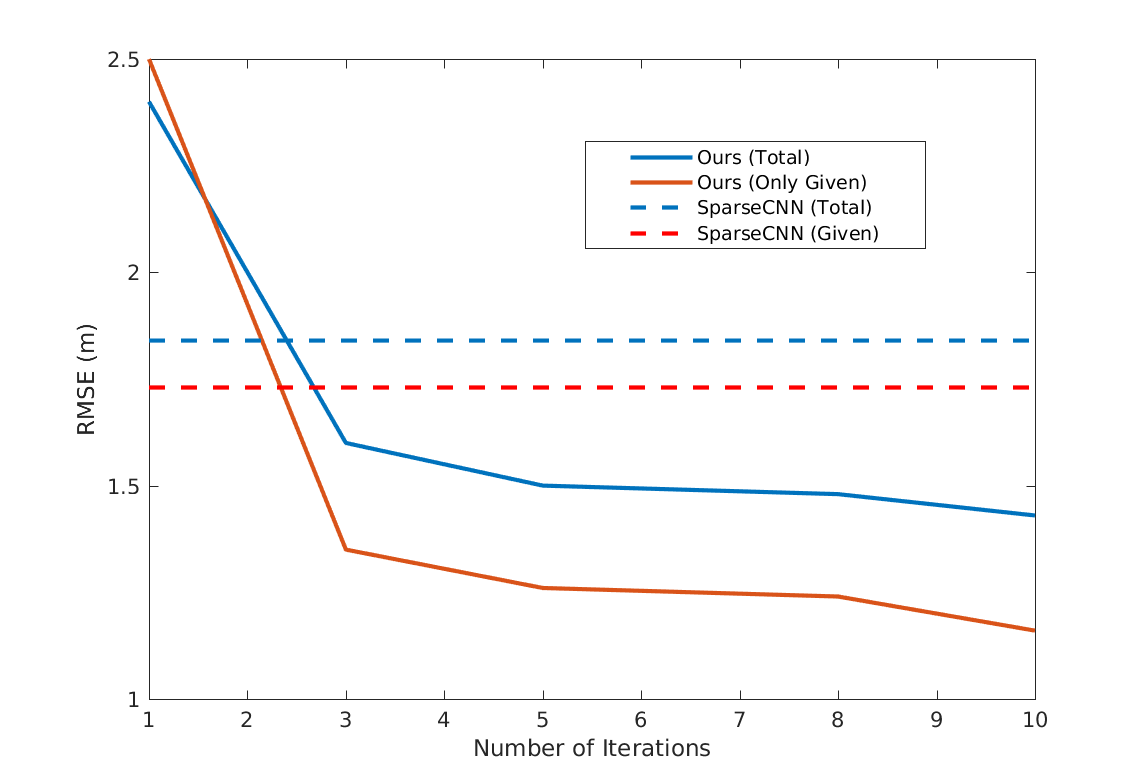
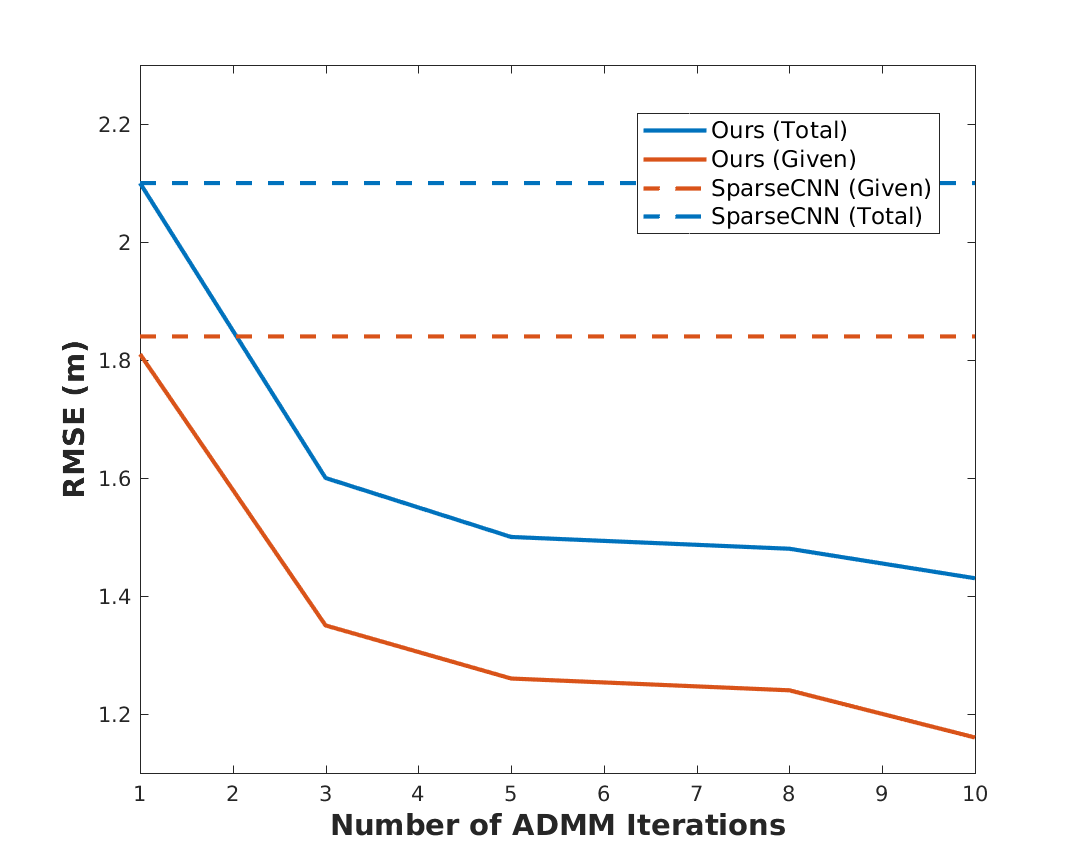
Added Experiments and Approach section

diff --git a/Introduction-nate.tex b/Introduction-nate.tex
@@ -7,22 +7,20 @@
   \caption{From top to bottom: RGB image of scene, ground-truth depth, input to the network, our output. The bicycalist and bollards can barely be seen in the input map but a clearly represented in the output. Our method also accurately reconstructs very thin objects such as the sign post.}
   \label{fig:intro}
 \end{figure}
-In recent years 3D information has become an important component of robotic sensing. Usually this information is presented in 2.5D as a depth map, either measured directly using LIDAR or computed using stereo correspondence. Since LIDAR and stereo techniques yield few samples relative to modern image sensors, it has become desirable to convert sparse depth measurements into high resolution depth maps.
+In recent years 3D information has become an important component of robotic sensing. Usually this information is presented in 2.5D as a depth map, either measured directly using LIDAR or computed using stereo correspondence. Since LIDAR and stereo techniques yield few samples relative to modern image sensors, it has become desirable to convert sparse depth measurements into high resolution depth maps as shown in Figure (\ref{fig:intro}).
 
 
-Recent works~\cite{} have directly applied deep networks to depth completion from sparse measures. However, common network architectures have two drawbacks when applied to this task: 1) They implicitly pose depth completion as finding a mapping from sparse depth maps to dense ones, instead of as finding a depth map that is consistent with the sparse input. This essentially throws away information and we observe that feed forward networks do not learn to propagate the input points through to the output. 2) Common networks are sensitive to the sparsity of the input since they treat all pixels equally, regardless of whether or not they represent samples or missing input. Special CNN networks have been designed to address this problem, but they still do not express the constraints given by the input~\cite{}. In this paper we address both of these issues with a novel deep recurrent autoencoder architecture which internally optimizes its depth prediction while respecting to both sparsity and input constraints.
+Recent works~\cite{} have directly applied deep networks to depth completion from sparse measures. However, common network architectures have two drawbacks when applied to this task: 1) They implicitly pose depth completion as finding a mapping from sparse depth maps to dense ones, instead of as finding a depth map that is consistent with the sparse input. This essentially throws away information and we observe that feed forward networks do not learn to propagate the input points through to the output. 2) Common networks are sensitive to the sparsity of the input since they treat all pixels equally, regardless of whether or not they represent samples or missing input. Special CNN networks have been designed to address this problem, but they still do not express the constraints given by the input~\cite{}. In this paper we address both of these issues with a novel deep recurrent autoencoder architecture, which internally optimizes its depth prediction with respect to both sparsity and input constraints.
 %) Common networks are sensitive to the sparsity level of the input since they treat each pixel equally, regardless of whether it is an input or missing value. While special CNN architecture have been designed to achieve sparsity invariance~\cite{}, they have no way to handle the second issue. 2) Common networks do not explicitly enforce the constraint that the input depth map is a subset of the desired output. In fact, we observe that deep networks are not able to effectively propagate input depth samples to the output. In this paper we address both of these issues with a novel deep recurrent autoencoder architecture which internally optimizes its depth prediction while respecting to both sparsity and input constraints.
-
-
-We have taken inspiration from Compressed sensing (CS), which provides a natural framework for this problem. Formally, CS is concerned with recovering signals from incomplete measurements by enforcing that signals be sparse when measured in an appropriate basis. This basis takes the form of an overcomplete dictionary matrix $A$ which maps sparse representations to observed signals.
+To do this, we have taken inspiration from Compressed sensing (CS) which provides a natural framework for this problem. Formally, CS is concerned with recovering signals from incomplete measurements by enforcing that signals be sparse when measured in an appropriate basis. This basis takes the form of an overcomplete matrix $A$ which maps sparse representations to observed signals.
 % To reconstruct signals which are not measured, certain prior knowledge/assumption of the signal is required.
 
-The choice of dictionary is crucial for recovering the signal efficiently, especially when the dimensionality is high. For high resolution imagery data, such as depth maps, multi-layer convolutional sparse coding~\cite{} is effective as it explicitly models local interactions through the convolution operator~\cite{} and captures higher level abstraction of the signal~\cite{} with tractable computational and model complexity. However, none of the existing multi-layer convolutional sparse coding algorithms are designed for data with large potion of missing values. This is reflected by the fact that recent works~\cite{} applying CS to depth completion are restricted to using single-level, hand crafted dictionaries. CS has also fallen out of fashion since the existing algorithms have difficult to interpret hyper-parameters, and often do not achieve good performance without careful tuning of these parameters.
+The choice of dictionary is crucial for recovering the signal efficiently, especially when the dimensionality is high. For high resolution imagery data, such as depth maps, multi-layer convolutional sparse coding~\cite{} is effective as it explicitly models local interactions through the convolution operator~\cite{} with tractable computational and model complexity. However, none of the existing multi-layer convolutional sparse coding algorithms are designed for learning from sparse ground truth data. This is reflected by the fact that recent works~\cite{} applying CS to depth completion are restricted to using single-level, hand crafted dictionaries. CS has also fallen out of fashion since the existing algorithms have difficult to interpret hyper-parameters, and often do not achieve good performance without careful tuning of these parameters.
 
 % extracting sparse codes $x$ but learning an appropriate $A$ from data proves challenging, especially with a large amount of data or large dimensionality. Learning dictionaries is especially difficult in layered sparse coding where one seeks a very high level sparse representation $x_{\ell}$ such that $b = A_0A_1\ldots A_{\ell}x_{\ell}$ and each intermediate product $x_i = A_iA_{i+1}\ldots A_{\ell}x_{\ell}$ is also sparse. This formulation makes using large effective dictionary computationally tractable, and when the dictionaries have a convolutional structure it allows for increased receptive fields while keeping the number of parameters manageable. For the case of depth map prediction, dictionary learning is further complicated by the fact that we do not have any complete signals to learn from. 
 % Dictionary learning algorithms exist for single-layer sparse training data case, and for the multi-level case, but not for learning multi-level codes from sparse data. 
 
-Our approach also establishes a close connection between deep learning and CS. Inspired by recent work of Murdock \etal, which shows that feed forward neural networks can be viewed as a single iteration of alternating direction method of multipliers (ADMM) for sparse coding, we unroll the ADMM optimization iterations for CS and express it as a deep recurrent autoencoder. This not only allows us to learn multi-layer dictionaries and hyper-parameters, in an end-to-end fashion, but also gives a concrete framework for explicitly enforcing constraints on the output of a network.
+Following the recent work of Murdock \etal, which shows that feed forward neural networks can be viewed as a single iteration of alternating direction method of multipliers (ADMM) for sparse coding, we unroll the ADMM optimization iterations for CS and express it as a deep recurrent autoencoder. This not only allows us to learn multi-layer dictionaries and hyper-parameters, in an end-to-end fashion, but also gives a concrete framework for explicitly enforcing constraints on the output of a network.
 
 % propose an extension of ADNNs which explicitly encode the previously mentioned sparsity and input/output constraints.
 
@@ -37,13 +35,13 @@ Our approach also establishes a close connection between deep learning and CS. I
 
 To summarize, the main contributions of this paper are:
 \begin{enumerate}
-\item We frame an end-to-end multi-layer dictionary learning algorithm as a neural network. This allows us to effectively learn dictionaries and hyper-parameters from a large dataset. In comparison, existing CS algorithms either use hand crafted dictionaries, or use separately learned dictionaries, but limited to single level codes~\cite{} or inapplicable to incomplete training data~\cite{}, as is our case.
+\item We frame an end-to-end multi-layer dictionary learning algorithm as a neural network. This allows us to effectively learn dictionaries and hyper-parameters from a large dataset. In comparison, existing CS algorithms either use hand crafted dictionaries, separately learned multi-level dictionaries, or are inapplicable to incomplete training data~\cite{}, as is our case.
 
   
-\item Our method allows for explicit encoding of the constraints from the input sparse depth. Current deep learning approaches~\cite{} simply feed in a sparse depth map and relies solely on data to teach the network to identify which inputs represent missing data. Some recent models~\cite{} explicitly include masks to achieve sparsity invariant, but none have a guaranteed way of encoding that the input is a subset of the desired output. In contrast our method directly optimizes the predicted map with respect to the input.
+\item Our method allows for explicit encoding of the constraints from the input sparse depth. Current deep learning approaches~\cite{} simply feed in a sparse depth map and rely solely on data to teach the network to identify which inputs represent missing data. Some recent models~\cite{} explicitly include masks to achieve sparsity invariant, but none have a guaranteed way of encoding that the input is a subset of the desired output. In contrast our method directly optimizes the predicted map with respect to the input.
   
   
-\item Our method demonstrates state-of-the-art performance with much fewer parameters compared to deep networks. In fact,  using only two layers of dictionaries, our method already substantially outperforms modern deep networks~\cite{}. As a result of having fewer parameters, our approach trains faster and requires less data.
+\item Our method demonstrates state-of-the-art performance with much fewer parameters compared to deep networks. In fact, using only two layers of dictionaries, our method already substantially outperforms modern deep networks~\cite{}. As a result of having fewer parameters, our approach trains faster and requires less data.
   
 \end{enumerate}
   

diff --git a/Experiment.tex b/Experiment.tex
@@ -1,4 +1,9 @@
 \section{Experiments}
+
+\subsection{Implementation Details}
+\label{sec:impl-deta}
+
+We implemented three variants of algorithm (\ref{alg:dcsc}) for the cases $\ell = 1,2,3$. For the single layer case we let $W^T_1$ be a 11x11 convolution with striding of 2 and 8 filters. For $\ell = 2$ we let $W^T_{1}$ be an 11x11 convolution with 8 filters and $W^T_{1}$ be a 7x7 convolution with 16 filters. Finally for the $\ell = 3$ case: $W^T_{1}$ is an 11x11 convolution with 8 filters, $W^T_{2}$ is a 7x7 convolution with 16 filters, and $W^T_{3}$ is a 5x5 convolution with 32 filters. For both $\ell = 2$ and $\ell = 3$, all convolutions have striding of 2. For the single layer case we learned the dictionaries with the number of iterations set to 5 and then at test time increased the number of iterations to 20. For the two and three layer cases the number of iterations was fixed at train and test time to 10 except in section \ref{sec:effect-iter-optim} where the number of test and training iterations is varied. All training was done with the ADAM optimizer with the default parameters.
 \subsection{KITTI Depth Completion Benchmark}
 \label{sec:kitti-depth-compl}
 \begin{figure}
@@ -14,19 +19,19 @@
   ConvNet & 2.97 & 0.78\\
   ConvNet + mask & 2.24 & 0.79\\
   SparseConvNet~\cite{} & 1.82 & 0.58\\
-  Ma \& Karaman & 1.68 & 0.70\\
+  Ma \& Karaman & 1.68 & 0.70\\\hline
   Ours 1 Layer & 2.77 & 0.83\\
   Ours 2 Layers & 1.44 & 0.47\\
   Ours 3 Layers & \textbf{1.37} & \textbf{0.46}
 \end{tabular}
 
-\caption{Comparison with various methods on the KITTI Depth Completion benchmark. All resulsts except for SparseConvNet and Ma's are taken as reported from ~\cite{}. Our method outperforms all previous state-of-the-art depth only completion methods (Bottom) as well as those that use RGB images for guidance (Top).}
+\caption{Validation error of various methods on the KITTI Depth Completion benchmark. All resulsts except for SparseConvNet and Ma's are taken as reported from ~\cite{}. Our method outperforms all previous state-of-the-art depth only completion methods (Middle) as well as those that use RGB images for guidance (Top).}
 \label{fig:kitti}
 \end{figure}
 
-The KITTI dataset provides raw LIDAR measurements in conjunction with high resolution RGB images from 22 video sequences of driving in both cities and highways. Combining all video sequences gives 93k frames with semi-dense ground truth depth. However, these measurements are corrupted by noise, motion of the vehicle during sampling, and image rectification artifacts. Additionally the raw LIDAR points are very sparse, accounting for around 4\% of the total number of pixels in the map. For these reasons the raw KITTI dataset is not ideal for evaluating depth completion systems.\\
+The KITTI dataset provides raw LIDAR measurements in conjunction with high resolution RGB images from 22 video sequences of driving in both cities and highways. Combining all video sequences gives 93k frames with semi-dense ground truth depth. However, these measurements are corrupted by noise, motion of the vehicle during sampling, and image rectification artifacts. Additionally the raw LIDAR points are very sparse, accounting for only 4\% of the total number of pixels in the map. For these reasons the raw KITTI dataset is not ideal for evaluating depth completion systems.\\
 
-The sparsity issue can be resolved by accumulating LIDAR measurements from nearby frames in the video sequences, and by using semi-global matching to reconstruct dense 3D points which can be projected using the given calibration files. Both these processes introduce more errors from occlusion and non-rigid movement across frames. Urhig \etal resolved these issues by automatically removing accumulated LIDAR points that deviate from the SGM points by too much. The result is the KITTI depth completion benchmark, the first large scale dataset for depth completion training and evaluation. This benchmark is ideal since it has high quality ground truth and effectively simulates the main application of depth completion: recovering dense depth from a single LiDAR sweep.\\
+The sparsity issue can be resolved by accumulating LIDAR measurements from nearby frames in the video sequences, and by using semi-global matching to reconstruct dense 3D points which can be projected using the given calibration files. Both these processes introduce more errors from occlusion and non-rigid movement across frames. Urhig \etal resolved these issues by automatically removing accumulated LIDAR points that deviate too far from the SGM points. The result is the KITTI depth completion benchmark, the first and only large scale dataset for depth completion training and evaluation. This benchmark is ideal since it has high quality ground truth and effectively simulates the main application of depth completion: recovering dense depth from a single LiDAR sweep.\\
 
 Urhig \etal then evaluated their proposed Sparsity Invariant CNNs on this dataset as well as several other current methods for depth completion. Figure (\ref{fig:kitti}) shows the results they present along with our method and the results of the very deep Sparse-to-Dense network proposed by Ma \& Karaman. The Sparse-to-Dense network is fairly standard, using Resnet-18 as an encoder and up-projection blocks for a decoder. Similar architectures have been presented in other works for single shot depth prediction. Notably our method outperforms all of the existing methods by a wide margin, including those that use RGB images and those that use orders of magnitude more parameters than our method.
 \subsection{Effect of Amount of Training Data}
@@ -36,8 +41,8 @@ Urhig \etal then evaluated their proposed Sparsity Invariant CNNs on this datase
   \caption{Results of selected methods for varying training set sizes.}
   \label{fig:trainsize}
 \end{figure}
-Modern deep learning models typically have tens of thousands to millions of parameters and therefore require enormous training sets to achieve good performance. This is in fact the motivation for the KITTI depth completion dataset, since previous benchmarks were unsuitable for training deep networks. In this section we investigate the dependence on the amount of training data on the performance of our method in comparison with a standard deep network and the sparsity invariant variety.\\
-Figure () shows the results of evaluating these models on the 1k manually selected validation depth maps after training on varying subsets of the 86k training maps. Our method outperforms both baselines for all training sizes. As expected Ma \& Karaman's method fails to generalize well when trained on a small dataset since the model has ~3.4M parameters but performs well once trained on the full dataset. It is interesting to observe that the method of Urhig \etal does not gain any performance from training on more data. Our method is able to perform comparably to the sparsity invariant network with only 100 training examples but does increase in performance when given more data, validating the need for learning layered sparse coding dictionaries from large training sets.
+Modern deep learning models typically have tens of thousands to millions of parameters and therefore require enormous training sets to achieve good performance. This is in fact the motivation for the KITTI depth completion dataset, since previous benchmarks did not have enough data to train deep networks. In this section we investigate the dependence on the amount of training data on the performance of our method in comparison with a standard deep network and the sparsity invariant variety.\\
+Figure (\ref{fig:trainsize}) shows the results of evaluating these models on the 1k manually selected validation depth maps after training on varying subsets of the 86k training maps. Our method outperforms both baselines for all training sizes. As expected Ma \& Karaman's method fails to generalize well when trained on a small dataset since the model has ~3.4M parameters but performs well once trained on the full dataset. It is interesting to observe that the method of Urhig \etal does not gain any performance from training on more data. Our method is able to perform comparably to the sparsity invariant network with only 100 training examples but does increase in performance when given more data, validating the need for learning layered sparse coding dictionaries from large training sets.
 \subsection{Effect of Iterative Optimization}
 \label{sec:effect-iter-optim}
 \begin{figure}
@@ -46,9 +51,9 @@ Figure () shows the results of evaluating these models on the 1k manually select
   \label{fig:iterplot}
 \end{figure}
 
-In this section we demonstrate that the success of our approach comes from its ability to refine depth estimates over multiple iterations. Applying a feed forward neural network to this problem frames it as finding a mapping from sparse LiDAR points to true depth maps. This is a reasonable approach but it doesn't utilize all of the available information, specifically it doesn't encode the relationship that input samples are a subset of the output. In contrast our approach of phrasing the depth completion as a compressed sensing missing data problem directly expresses that relationship. It is the iterative nature of our network that allows it to find depth maps that are both consistent with the input constraints and have sparse representations.\\
+In this section we demonstrate that the success of our approach comes from its ability to refine depth estimates over multiple iterations. Applying a feed forward neural network to this problem frames it as finding a mapping from sparse LiDAR points to true depth maps. This is a reasonable approach but it doesn't utilize all of the available information, specifically it doesn't encode the relationship that input samples are a subset of the output. In contrast, our approach of phrasing depth completion as a compressed sensing missing data problem directly expresses that relationship. By solving this problem in an iterative fashion our network that is able to find depth maps that are both consistent with the input constraints and have sparse representations.\\
 
-The importance iterative optimization is shown in Figure (\ref{fig:iterplot}) where we examine the performance of our method as a function of the number of ADMM iterations it encodes. It is clear that with few iterations our network fails to enforce the constraints and performs comparably to the SparseConvNet. It is as we increase the number of iterations that our method can meet the constraints and out perform the existing methods.
+The importance iterative optimization is shown in Figure (\ref{fig:iterplot}) where we examine the performance of our method as a function of the number of ADMM iterations it uses. It is clear that with few iterations our network fails to enforce the constraints and performs comparably to the SparseConvNet. As we increase the number of iterations that our method can meet the constraints and greatly out perform existing methods.
 % - Feed-forward is bad for this problem
 % - Phrasing it as optimization is better, specifically sparse coding
 % - All the best algorithms for CSC require multiple iterations to converge to a good solution

diff --git a/Approach.tex b/Approach.tex
@@ -1,1 +1,113 @@
 \section{Method}
+\subsection{Sparse Coding and Deep Component Analysis}
+\label{sec:compr-sens-deep}
+
+The field of compressed sensing (CS) provides a natural framework for recovering a signal from a small set of measurements. Compressed sensing is based on sparse coding which is formally concerned with solving the following problem. 
+\begin{equation}
+  \label{eq:1}
+  x^* = \min \left||x\right||_0 s.t. Ax = b
+\end{equation}
+The key insight is that when the optimal $x$ is known to have only a few non-zero entries, then it is a unique minimum and can be recovered exactly even when $A$ is over-complete. This proves useful for compressed sensing since if the number of non-zero entries of $x^*$ is known to be $k$, then it effectively reduces the degress of freedom of the problem to $2k$ (the entries and their indices). Therefore we may need as few as $2k$ elements of $b$ to fully contrain the solution of $x^{*}$.\\
+
+Equation (\ref{eq:1}) can be generalized to multi-layered sparse coding in which one seeks a very high level sparse representation $x_{\ell}$ such that $b = A_0A_1\ldots A_{\ell}x_{\ell}$ and each intermediate product $x_i = A_iA_{i+1}\ldots A_{\ell}x_{\ell}$ is also sparse. This formulation makes using a large effective dictionary computationally tractable, and when the dictionaries have a convolutional structure it allows for increased receptive fields while keeping the number of parameters manageable. This is further generalized to Deep Component Analysis (DeepCA) by the recent work of Murdock \etal which replaces the $\ell_0$ loss with arbitrary sparsity-encouraging penalties. The DeepCA objective function is stated in ~\cite{} as:
+\begin{equation}
+  \label{eq:2}
+  \min_{\Theta, \{z_i\}} \sum_{i=1}^{\ell} \frac{1}{2} \left|| z_{i-1} - W_iz_i\right||_2^2 + \Phi_i(z_i)
+\end{equation}
+where the $\Phi_j$ are the penalty functions. Previous work has shown that the specific choice of $\Phi(x) = I(x > 0) + b\left||x\right||_1$ yields optimization algorithms very similar to a feed-forward neural network with Relu activations. By using the ADMM algorithm to solve equation (\ref{eq:2}), Murdock \etal create Alternating Direction Neural Networks, a generalization of feed forward neural networks which internally solve optimization problems with the form of (\ref{eq:2}). Alternating Direction Neural Networks (ADNNs) perform the optimization in a fully differentiable manner and cast the activation functions of each layer as the proximal operators of penalty function $\Phi_i$ of that layer. This allows for learning the dictionaries $W_i$ through gradient descent and back propegation with respect to an arbitrary loss function on the sparse codes. To mirror neural networks, Murdock \etal apply various loss functions to the highest level of codes, which take the place of the output layer in traditional NNs. In the following sections we will show how ADNNs can be adapted to the depth completion problem.\\
+
+Before applying ADNNs to depth completion we will review how sparse coding is used for compressed sensing. To this end, consider applying to $b$ a rectangular binary matrix $M$ such that $MM^T = I$ and each row contains all 0s except for a single 1. Intuitively, if $b$ is the signal we wish to recover then $Mb$ is the portion of $b$ we measure. Using the condition from equation (\ref{eq:1}) we have $MAx = Mb$. This combined with the sparsity of $x$ yields another sparse coding problem, now with the modified dictionary $MA$. It is known that if $x$ is sparse enough to be a unique encoding of $Mb$ with respect to $MA$, then it must also be the unique encoding of $b$ with respect to $A$ ~\cite{}. Thus once the sparse codes $x$ have been found the full signal can be recovered as $Ax$. We will now apply this formulation to DeepCA and then develop a modificaiton to ADNNs to solve the new Deep Compressed Sensing problem.
+
+\subsection{Deep Compressed Sensing}
+\label{sec:deep-compr-sens}
+
+Directly applying compressed sensing to the DeepCA objective gives
+\begin{equation*}
+  \min_{\Theta, \{z_i\}} \frac{1}{2} \left|| Md - MW_1z_1 \right||^2 + \Phi(z_1) \sum_{i=2}^{\ell} \frac{1}{2} \left|| z_{i-1} - W_iz_i\right||_2^2 + \Phi_i(z_i)  
+\end{equation*}
+where $d$ is the full depth map and $Md$ is the sparse input depth map. However, if we take the $W_i$ to have a convolutional structure then an element $z_1$ will not be recovered if its spatial support contains no valid depth samples. Thus, extracting the higher level codes is itself a missing data problem and can be written the same way. This gives the full Deep Convolutional Compressed Sensing objective:
+\begin{equation}
+  \label{eq:dccs}
+  \min_{\Theta, \{z_i\}} \sum_{i=1}^{\ell} \frac{1}{2} \left|| M_{i-1}z_{i-1} - M_{i-1}W_iz_i\right||_2^2 + \Phi_i(z_i)
+\end{equation}
+where $Md = M_0z_0$ and $M_i$ is a mask which encodes which elements of $z_i$ had any valid inputs in their spatial support. In practice computing $M_i$ is done with a maxpooling operation with the same stride and kernel size as the convolution represented by $W_{i+1}^T$. We will now solve (\ref{eq:dccs}) using the ADMM algorithm.\\
+
+By introducing auxiliary variables $y_i = z_i$ we can form the augmented Lagrangian of (\ref{eq:dccs}) as:
+\begin{equation}
+  L(z, y, \lambda) = \sum_{i=1}^{\ell} \frac{1}{2} \left|| M_{i-1}y_{i-1} - M_{i-1}W_iz_i\right||_2^2 + \Phi_i(y_i) + \lambda^T_i(z_i - y_i) + \frac{\rho}{2}\left||z_i - y_i\right||_2^2
+\end{equation}
+The ADMM algorithm then minimizes $L$ over each variable in turn, while keeping all others fixed. Following Murdock \etal we will incrementally update each layer instead of first solving for all $z_i$ followed by all $y_i$. They show this order leads to faster convergence. The ADMM updates for each variable are as follows:
+\begin{enumerate}
+\item
+  \begin{equation}
+    \begin{aligned}
+      z^{[t+1]}_i &:= \argmin_{z_i} L(z_i, y^{[t+1]}_{i-1}, y^{[t]}_i, \lambda_i^{[t]})\\
+      &= (W_i^TM_{i-1}^TM_{i-1}W_i + \rho I)^{-1}(W_{i}^TM_{i-1}^TM_{i-1}Wy^{[t+1]}_{i-1} + \rho y^{[t]}_{i} - \lambda^{[t]})
+    \end{aligned}
+    \label{eq:wupdate1}  
+  \end{equation}
+
+  This gives a fully differentiable update of $z_i$ but the matrix inversion is computationally expensive, especially since $W_i$ is not formed explicitly. To deal with this problem we will make the approximation that $W_i$ is a Parseval tight frame, that is we will assume $W_iW_i^T = I$. In addition to being common practice in autoencoders with tied weights, this assumption is also made by Murdock \etal and has previously been explicitly enforced in deep neural networks~\cite{}. We can then use the binomial matrix identity to rewrite the $z_i$ update as:
+  \begin{equation}
+    \begin{aligned}
+      \tilde{y}_i^{[t]} &= y_i^{[t]} - \frac{1}{\rho}\\
+      z^{[t+1]} &= \tilde{y}_i^{[t]} + \frac{1}{1 + \rho}W^T_iM_{i-1}^T(M_{i-1}y^{[t+1]}_{i-1} - M_{i-1}W_i\tilde{y}^{[t]}_i)
+    \end{aligned}\label{eq:zupdate}
+  \end{equation}
+\item
+  \begin{equation}
+    \begin{aligned}
+      y_i^{[t+1]} &:= \argmin_{y_i} L(z^{[t+1]}_i, z^{[t]}_{i+1}, y_i, \lambda_i^{[t]})\\
+      &= \phi_i\left(\frac{1}{1+\rho}W_{i+1}z^{[t]}_{i+1} + \frac{\rho}{1+\rho}(z^{[t+1]}_i + \frac{\lambda_i^{[t]}}{\rho})\right)\\
+      y_{\ell} &= \phi_i\left(z_i^{[t]} + \frac{\lambda_i^{[t]}}{\rho}\right)
+    \end{aligned}\label{eq:yupdate}
+  \end{equation}
+
+  Here $\phi_i$ is the proximal operator associated with the penalty function $\Phi_i$. For appropriate choices of $\Phi_i$, $\phi_i$ can be computed efficiently and differentiably. Specifically we will chose $\Phi_i(x) = I(x > 0) + b\left||x\right||_1$ so that $\phi_i(x) = Relu(x - \frac{b}{\rho})$, an operation that is implemented efficiently in machine learning frameworks.
+\item Finally the $\lambda_i$ updated with the standard ADMM formula:
+  \begin{equation}
+    \label{eq:lupdate}
+    \lambda_i^{[t+1]} = \lambda_i^{[t]} + \rho(z_i^{[t+1]} - y_i^{[t+1]})
+  \end{equation}
+\end{enumerate}
+\begin{algorithm}
+  \SetKwInOut{Input}{Input}\SetKwInOut{Output}{Output}
+  \Input{model parameters $W_i,b_i$, iterations $T$, sparse depth $y_0 = Md$, mask $M$}
+  \Output{sparse codes $z^{[T]}_i$}
+  \For{$i \leftarrow 1$ \KwTo $\ell$}{
+    $z_i^{[0]} \leftarrow W_i^TM^T_{i-1}y_{i-1}$\;
+    $y_i^{[0]} \leftarrow Relu(z_i^{[0]} - b/\rho)$\;
+    $\lambda_i^{[0]} \leftarrow 0$\;
+  }
+  \For{$t \leftarrow 1$ \KwTo $T$}{
+    \For{$i \leftarrow 1$ \KwTo $\ell$}{
+      Update $z^{[t]}_i$ using equation (\ref{eq:zupdate})\;
+      Update $y^{[t]}_i$ using equation (\ref{eq:yupdate})\;
+      Update $\lambda^{[t]}_i$ using equation (\ref{eq:lupdate})\;
+    }
+  }
+  \caption{Deep Convolutional Sparse Coding}
+  \label{alg:dcsc}
+\end{algorithm}
+
+The normal ADMM algorithm repeatedly applies these updates until convergence but for simplicity we will approximate this behavior by truncating it to a constant number of iterations $T$. The full procedure is detailed in algorithm (\ref{alg:dcsc}).
+
+\subsection{Dictionary Learning}
+\label{sec:dictionary-learning}
+
+Since all of the updates used in algorithm (\ref{alg:dcsc}) are simple differentiable operations, the entire algorithm can be thought of as a single differentiable function
+\begin{equation}
+  \label{eq:7}
+  \{ z_i \} = f^{[T]}_{DCSC}(Md, M; \Theta)
+\end{equation}
+The final predicted depth is then given by
+\begin{equation}
+  \label{eq:8}
+  d^{*} = W_1W_2\ldots W_{\ell}z_{\ell}
+\end{equation}
+We can interpret the entire pipeline as a deep recurrent autoencoder with  $f^{[T]}_{DCSC}$ serving as the encoder and the $\ell$ convolutions $W_1W_2\ldots W_{\ell}$ serving as the decoder. It follows that the dictionaries can then be learned through stochastic gradient descent over a suitable loss function. Using the standard sum of squared loss error, dictionary learning is written as
+\begin{equation}
+  \label{eq:9}
+  \min_{W_i, b_i} \sum_j^{N}\left||M_{j}d_j - M_jd^{*}\right||
+\end{equation}
+Where $M_jd_j$ is the sparse ground truth depth map of the $j$th training example.

diff --git a/paper.tex b/paper.tex
@@ -7,7 +7,9 @@
 \usepackage{ruler}
 \usepackage{color}
 \usepackage{enumitem}
+\usepackage[ruled,vlined]{algorithm2e}
 \usepackage[width=122mm,left=12mm,paperwidth=146mm,height=193mm,top=12mm,paperheight=217mm]{geometry}
+\DeclareMathOperator*{\argmin}{\arg\!\min\,}
 \begin{document}
 % \renewcommand\thelinenumber{\color[rgb]{0.2,0.5,0.8}\normalfont\sffamily\scriptsize\arabic{linenumber}\color[rgb]{0,0,0}}
 % \renewcommand\makeLineNumber {\hss\thelinenumber\ \hspace{6mm} \rlap{\hskip\textwidth\ \hspace{6.5mm}\thelinenumber}}
@@ -43,7 +45,7 @@ the abstract section}
 
 % \input{Introduction.tex}
 \input{Introduction-nate.tex}
-%\input{Approach.tex}
+\input{Approach.tex}
 \input{Experiment.tex}
 
 \end{document}
